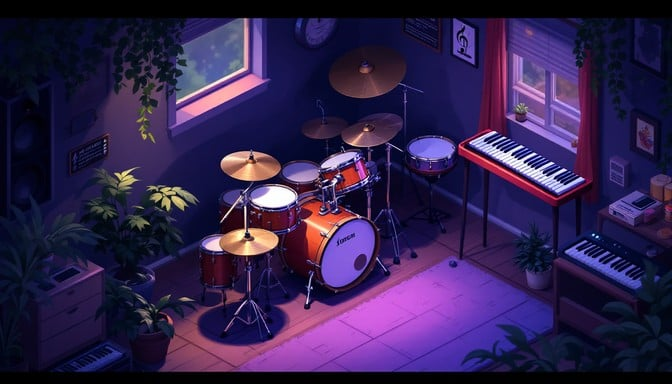
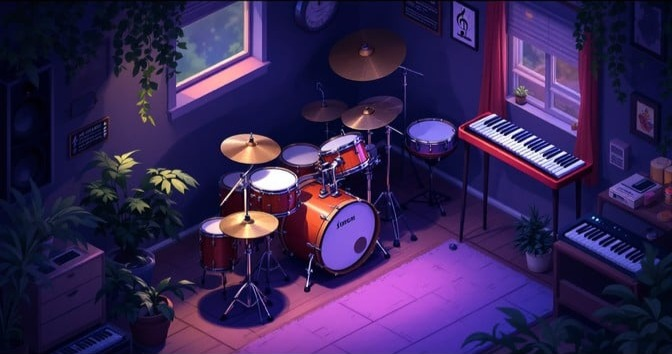
Made the background image fit in the box

diff --git a/apps/web-app/src/pages/PitchGame.vue b/apps/web-app/src/pages/PitchGame.vue
@@ -25,9 +25,9 @@
     
     <div class="control-panel">
       <h3>Pitch Control Status</h3>
-      <p>Status: **{{ audioStatus }}**</p>
-      <p>Current Pitch: **{{ currentPitch.toFixed(2) }} Hz**</p>
-      <p>Game Height: **{{ birdY.toFixed(0) }}** (Min/Max: {{ MIN_PITCH }}Hz / {{ MAX_PITCH }}Hz)</p>
+      <p>Status: {{ audioStatus }}</p>
+      <p>Current Pitch: {{ currentPitch.toFixed(2) }} Hz</p>
+      <p>Game Height: {{ birdY.toFixed(0) }} (Min/Max: {{ MIN_PITCH }}Hz / {{ MAX_PITCH }}Hz)</p>
       <button @click="isGameOver ? startGame() : stopGame()">
         {{ isGameOver ? 'Start Game' : 'Stop Game' }}
       </button>
@@ -298,13 +298,13 @@ h2 {
   width: 500px;
   height: 480px;
   /* Apply dark card styling */
-  background-color: var(--card-bg);
-  border: 1px solid rgba(255, 255, 255, 0.05);
-  border-radius: 16px;
+  /* background-color: var(--card-bg); */
+  /* border: 1px solid rgba(255, 255, 255, 0.05); */
+  /* border-radius: 16px; */
   overflow: hidden;
   margin: 20px auto;
   user-select: none;
-  box-shadow: 0 10px 30px rgba(0, 0, 0, 0.4);
+  /* box-shadow: 0 10px 30px rgba(0, 0, 0, 0.4); */
   /* Added padding inside for the game area, though note items will cover it */
 }
 
@@ -398,13 +398,17 @@ h2 {
 
 .game-container {
   position: relative;
-  width: 672px;
+  width: 880px;
   background-image: url('@/public/game_bg.jpg');
-  background-size: cover;
-  background-color: #70c5ce;
-  height: 384px;
+  background-size: contain;
+  /* background-color: #70c5ce; */
+  background-repeat: no-repeat;
+  height: 100%;
+
   overflow: hidden;
   /* margin: 20px auto; */
+  /* box-shadow: 0 10px 30px rgba(0, 0, 0, 0.4); */
+
 }
 
 .bird {
